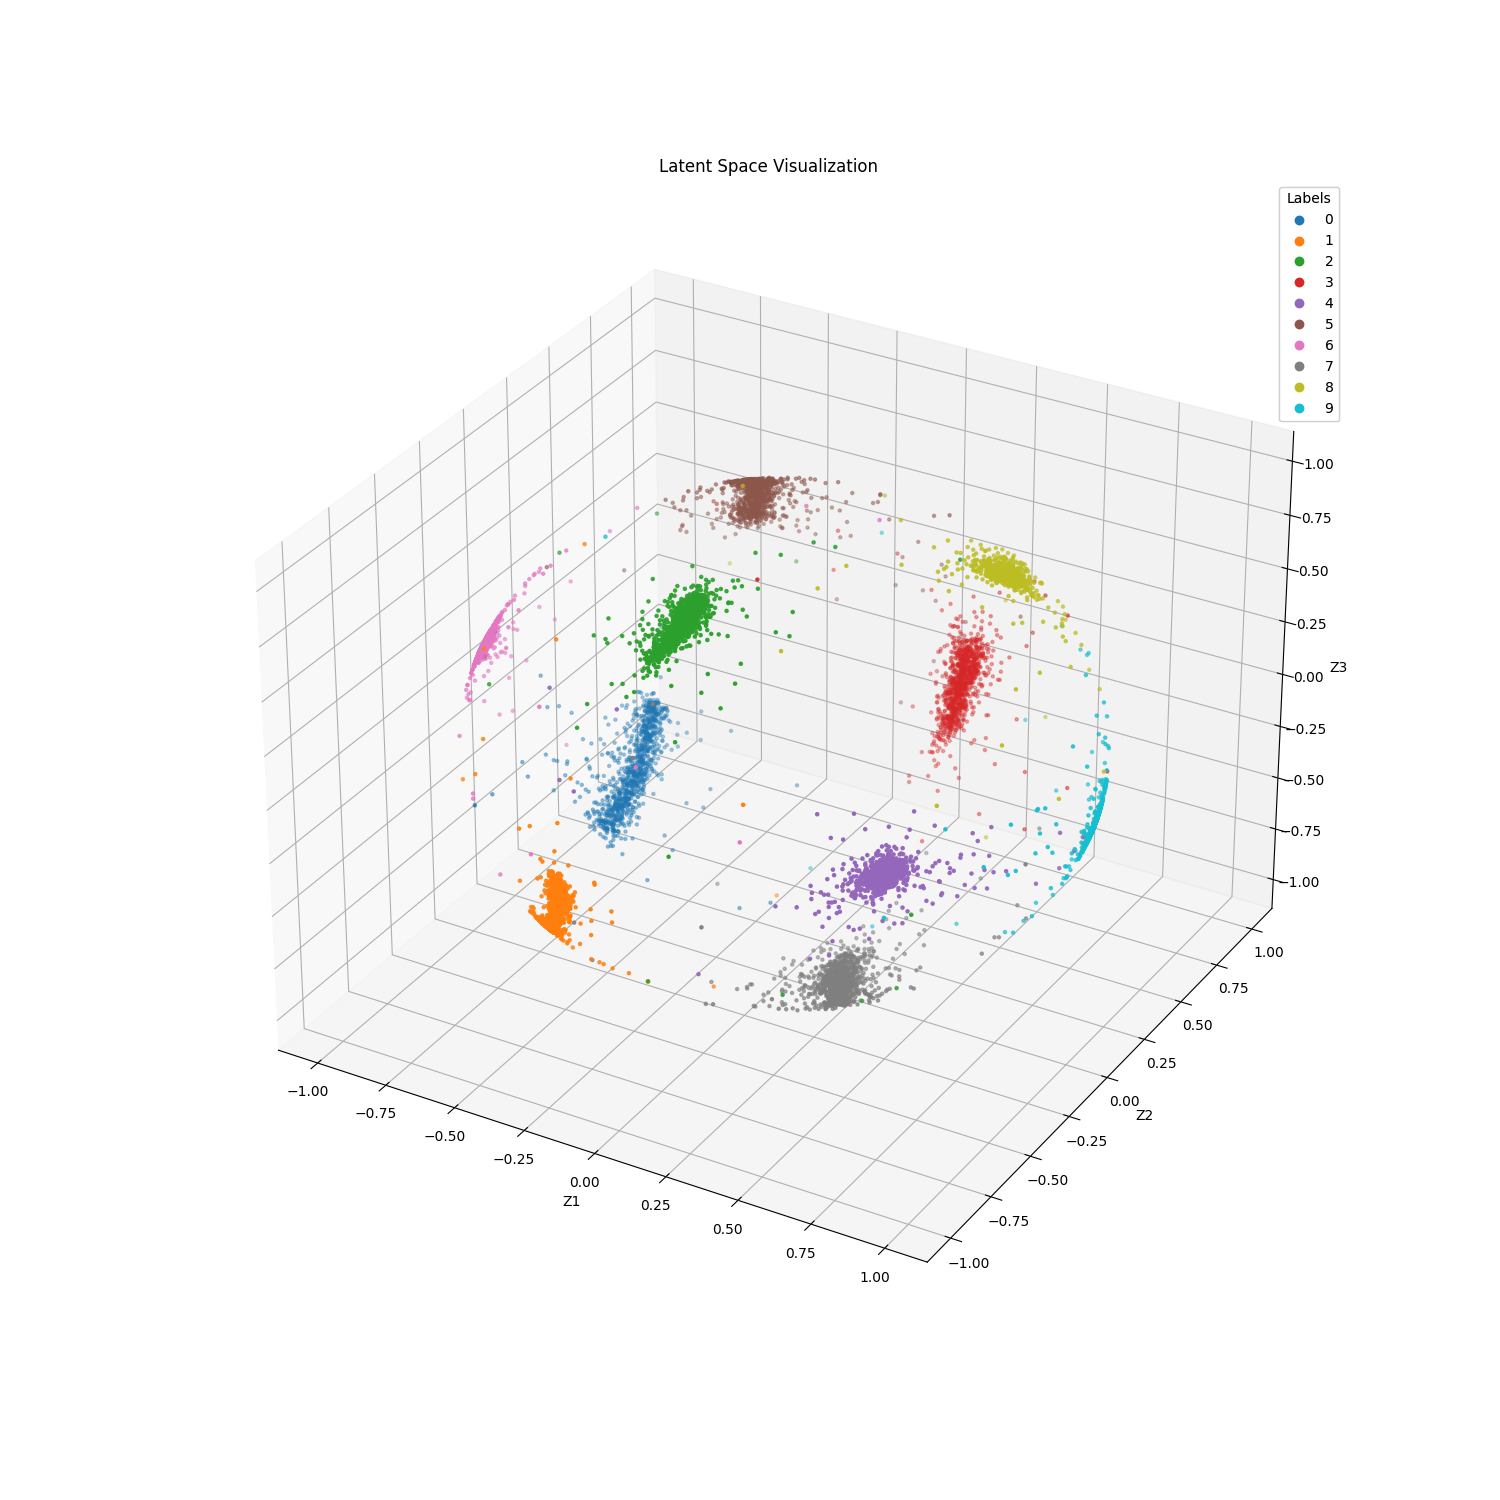
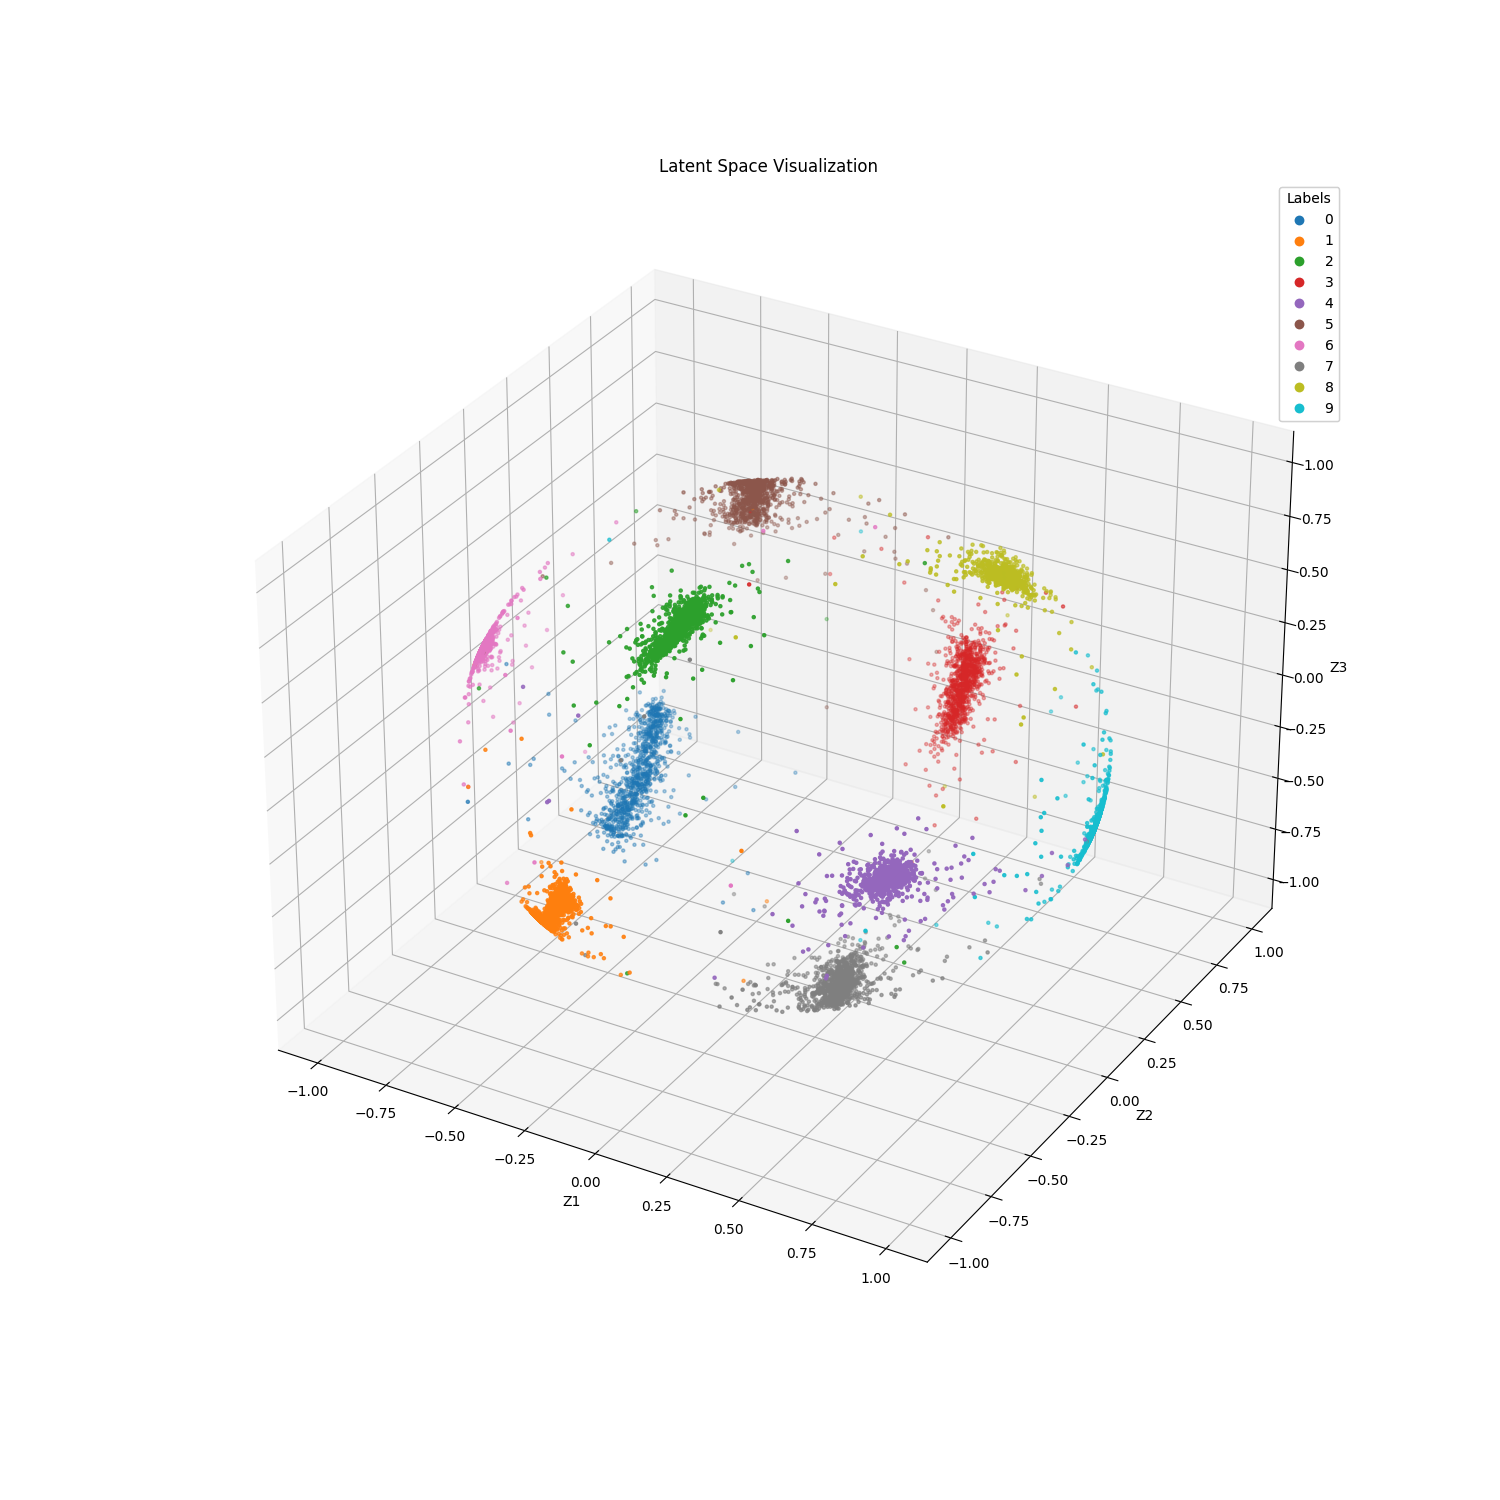
cnn + vmfloss + image gen

Changed region(s): [[0.368, 0.3067, 0.7667, 0.6747], [0.3067, 0.368, 0.368, 0.46], [0.3373, 0.552, 0.3987, 0.644]]

diff --git a/source/ch3-vae/svae/train_svae_mnist.py b/source/ch3-vae/svae/train_svae_mnist.py
@@ -12,6 +12,7 @@ from hiq.cv_torch import get_cv_dataset, DS_PATH_MNIST
 from hiq import deterministic
 import wandb
 from torch.optim.lr_scheduler import CosineAnnealingLR
+from torchvision.utils import make_grid
 
 # 基本参数
 original_dim = 784
@@ -34,11 +35,12 @@ CONTR_MUL = 0.3
 CNN_NETWORK = False
 MARGIN = 0.08
 T_MAX = EPOCHS
-ETA_MIN = LR/100
+ETA_MIN = LR / 100
+
 
 def load_data(data_path, batch_size):
     channel = 1
-    transform = transforms.Compose([transforms.ToTensor(), transforms.Normalize((0.5,)*channel, (0.5,)*channel)])
+    transform = transforms.Compose([transforms.ToTensor(), transforms.Normalize((0.5,) * channel, (0.5,) * channel)])
     loader_params = dict(
         shuffle=True,
         drop_last=False,
@@ -54,6 +56,7 @@ def load_data(data_path, batch_size):
                                 convert_rgb=False,
                                 **loader_params)
     return dataloader['train'], dataloader['test']
+
 
 class SVAE_CNN(nn.Module):
     def __init__(self, embedding_dim=84):
@@ -87,6 +90,7 @@ class SVAE_CNN(nn.Module):
         )
         self.mode = 'cnn'
 
+
 class SVAE_Linear(nn.Module):
     def __init__(self):
         super().__init__()
@@ -106,6 +110,7 @@ class SVAE_Linear(nn.Module):
             nn.Tanh()
         )
         self.mode = 'linear'
+
 
 class SVAE(SVAE_CNN):
     def __init__(self):
@@ -159,6 +164,7 @@ class SVAE(SVAE_CNN):
             samples = self.decode(z).cpu()
             return samples
 
+
 def loss_function(recon_x, x, vq_loss=0):
     recon_loss = F.mse_loss(recon_x, x.view(-1, original_dim), reduction='mean')
     return recon_loss + none_as_0(vq_loss), recon_loss
@@ -190,7 +196,7 @@ def save_recon_loss_history(recon_loss_history, replace_it, version):
     import pandas as pd
     if len(recon_loss_history) == 0:
         return
-    
+
     df = pd.DataFrame(recon_loss_history, columns=[f'v{version}'])
     filename = 'recon_loss.csv'
 
@@ -209,25 +215,27 @@ def save_recon_loss_history(recon_loss_history, replace_it, version):
         else:
             # Add new column for current version
             existing_df[f'v{version}'] = pd.Series(recon_loss_history)
-        
+
         # Ensure all columns have the same length by padding with NaN
         max_length = max(existing_df.shape[0], len(recon_loss_history))
         for column in existing_df.columns:
             if len(existing_df[column]) < max_length:
-                existing_df[column] = existing_df[column].tolist() + [float('nan')] * (max_length - len(existing_df[column]))
-        
+                existing_df[column] = existing_df[column].tolist() + [float('nan')] * (
+                            max_length - len(existing_df[column]))
+
         # Ensure the new column also matches the max length
         if len(existing_df[f'v{version}']) < max_length:
-            existing_df[f'v{version}'] = existing_df[f'v{version}'].tolist() + [float('nan')] * (max_length - len(existing_df[f'v{version}']))
-        
+            existing_df[f'v{version}'] = existing_df[f'v{version}'].tolist() + [float('nan')] * (
+                        max_length - len(existing_df[f'v{version}']))
+
         existing_df.to_csv(filename, index=False)
     except FileNotFoundError:
         df.to_csv(filename, index=False)
 
 
-
 def save_checkpoint(state, filename):
     torch.save(state, filename)
+
 
 def load_checkpoint(filename, model, optimizer):
     checkpoint = torch.load(filename)
@@ -248,11 +256,13 @@ def contrastive_loss_cosine(z, labels, margin=0.05, multiplier=500.):
     contrastive_loss_value = multiplier * (positive_loss + negative_loss).mean()
     return contrastive_loss_value
 
+
 def none_as_0(x):
     if isinstance(x, int):
         return x
     else:
         return 0 if x is None else x.item()
+
 
 def vmfml_loss(z, labels, kappa=100, num_classes=10):
     z = F.normalize(z, p=2, dim=1)
@@ -272,31 +282,33 @@ def vmfml_loss(z, labels, kappa=100, num_classes=10):
     loss = loss / batch_size
     return loss * 0.05
 
+def compute_class_means(z, labels, num_classes):
+    class_means = torch.zeros(num_classes, z.shape[1])
+    for c in range(num_classes):
+        class_indices = (labels == c)
+        if class_indices.sum() > 0:
+            class_means[c] = F.normalize(z[class_indices].mean(dim=0), p=2, dim=0)
+    return class_means
 
 def vmfml_loss_v2(z, labels, kappa=100, num_classes=10):
     z = F.normalize(z, p=2, dim=1)
     batch_size = z.size(0)
-
     # Compute class means
     class_means = torch.zeros(num_classes, z.size(1), device=z.device)
     for c in range(num_classes):
         class_indices = (labels == c)
         if class_indices.sum() > 0:
             class_means[c] = F.normalize(z[class_indices].mean(dim=0), p=2, dim=0)
-
     # Compute posterior probabilities
     logits = kappa * torch.mm(z, class_means.t())
     log_probs = F.log_softmax(logits, dim=1)
-
     # Create one-hot encoding of labels
     labels_one_hot = F.one_hot(labels, num_classes).float()
-
     # Compute the vMFML loss as the negative log likelihood
     loss = -torch.sum(labels_one_hot * log_probs) / batch_size
-
     return loss
 
-from torchvision.utils import make_grid
+
 def train(model, epoch, train_loader, optimizer, device, train_loss_history, recon_loss_history, vq_loss_weight=1,
           use_vmfml=False, scheduler=None, original_dim=784, kappa=10, num_classes=10, contrastive=False):
     model.train()
@@ -305,7 +317,7 @@ def train(model, epoch, train_loader, optimizer, device, train_loss_history, rec
     total_vq_loss = 0  # Initialize total VQ loss
     total_vmfml_loss = 0  # Initialize total vMFML loss
     total_contrastive_loss = 0  # Initialize total contrastive loss
-    contrastive_loss_value, vmfml_loss_value, kld = [torch.tensor(0.0, device=device)]*3
+    contrastive_loss_value, vmfml_loss_value, kld = [torch.tensor(0.0, device=device)] * 3
     batch_idx = 1
     small_constant = 1e-8
     with tqdm(total=len(train_loader.dataset), desc=f"Train Epoch {epoch}", unit='samples') as pbar:
@@ -351,7 +363,6 @@ def train(model, epoch, train_loader, optimizer, device, train_loss_history, rec
           f' recon: {avg_recon_loss:.4f}, vq: {avg_vq_loss:.4f},'
           f' contra: {avg_contrastive_loss:.4f}, vMFML: {avg_vmfml_loss:.4f}')
 
-
     # Log metrics to wandb
     wandb.log({"t/avg_train_loss": avg_train_loss,
                "t/avg_recon_loss": avg_recon_loss,
@@ -367,6 +378,7 @@ def train(model, epoch, train_loader, optimizer, device, train_loss_history, rec
     comparison = torch.cat([original_images, reconstructed_images])
     grid = make_grid(comparison, nrow=n)
     wandb.log({"Reconstructions": [wandb.Image(grid, caption="Top: Original images, Bottom: Reconstructed images")]})
+
 
 def validate(model, test_loader, device, val_loss_history, enable_statistics=False, vq_loss_weight=1, contrastive=False,
              use_vmfml=False, kappa=10, num_classes=10):
@@ -417,7 +429,7 @@ def validate(model, test_loader, device, val_loss_history, enable_statistics=Fal
     return avg_val_loss
 
 
-def visualize_latent_space(model, test_loader, device, version=0):
+def visualize_latent_space(model, test_loader, device, num_classes=NUM_CLASSES, version=0):
     if latent_dim != 3:
         return
     model.eval()
@@ -433,26 +445,29 @@ def visualize_latent_space(model, test_loader, device, version=0):
                 z_mean = z_mean.view(z_mean.shape[0], latent_dim)
             z_means.append(z_mean)
             labels.append(label)
-        z_means = torch.cat(z_means).cpu().numpy()
-        labels = torch.cat(labels).cpu().numpy()
-
+        z_means = torch.cat(z_means)
+        labels = torch.cat(labels)
+        z_means_cpu = z_means.cpu().numpy()
+        labels_cpu = labels.cpu().numpy()
+        class_means = compute_class_means(z_means, labels, num_classes).to(device)
     fig = plt.figure(figsize=(15, 15))  # Larger figure size
     ax = fig.add_subplot(111, projection='3d')
-    scatter = ax.scatter(z_means[:, 0], z_means[:, 1], z_means[:, 2], c=labels, cmap='tab10', s=5)  # Smaller points
-
+    scatter = ax.scatter(z_means_cpu[:, 0], z_means_cpu[:, 1], z_means_cpu[:, 2], c=labels_cpu, cmap='tab10',
+                         s=5)  # Smaller points
     # Create legend
     legend1 = ax.legend(*scatter.legend_elements(), title="Labels")
     ax.add_artist(legend1)
-
     ax.set_xlabel('Z1')
     ax.set_ylabel('Z2')
     ax.set_zlabel('Z3')
     plt.title('Latent Space Visualization')
-    plt.savefig(f"img/latent_space_v{version}.png")
+    plt.savefig(f"latent_space_v{version}.png")
     plt.show()
 
+    return class_means
 
-def visualize_reconstructed_digits(model, device, latent_dim, version=0):
+def visualize_reconstructed_digits(model, device, latent_dim, version=0, class_means=None):
+    import random
     with torch.no_grad():
         n = 15
         digit_size = 28
@@ -460,7 +475,10 @@ def visualize_reconstructed_digits(model, device, latent_dim, version=0):
         for i in range(n):
             for j in range(n):
                 # TODO - 采样的时候去中心点采样
-                z_sample = torch.randn(1, latent_dim, device=device)
+                if class_means is None:
+                    z_sample = torch.randn(1, latent_dim, device=device)
+                else:
+                    z_sample = torch.randn(1, latent_dim, device=device) / 10 + class_means[random.randint(0, 9)]
                 z_sample /= z_sample.norm()
                 x_decoded = model.decode(z_sample).view(digit_size, digit_size).cpu()
                 digit = x_decoded.numpy()
@@ -471,6 +489,7 @@ def visualize_reconstructed_digits(model, device, latent_dim, version=0):
     plt.title('Reconstructed Digits')
     plt.savefig(f'reconstructed_digits_v{version}.png')
     plt.show()
+
 
 def plot_loss(train_loss_history, val_loss_history, version=0):
     if not train_loss_history:
@@ -486,6 +505,7 @@ def plot_loss(train_loss_history, val_loss_history, version=0):
     plt.savefig(f"img/vq_svae_v{version}_loss_history.png")
     plt.show()
 
+
 def visualize_generated_images(model, num_samples, device, noise_scale=0.1, version=0):
     model.eval()
     with torch.no_grad():
@@ -496,6 +516,7 @@ def visualize_generated_images(model, num_samples, device, noise_scale=0.1, vers
             axes[i].axis('off')
         plt.savefig(f"img/generated_images_vq_svae_v{version}.png")
         plt.show()
+
 
 def generate_spherical_points(dim, num_points):
     if dim != 3:
@@ -514,6 +535,7 @@ def generate_spherical_points(dim, num_points):
     points = torch.tensor(points, dtype=torch.float)
     return points
 
+
 def plot_spherical_points(points):
     if points.shape[1] != 3:
         raise ValueError("Can only plot 3-dimensional points")
@@ -530,6 +552,7 @@ def plot_spherical_points(points):
     plt.title("3D Spherical Points")
     plt.show()
 
+
 def main(args):
     device = torch.device('cuda' if torch.cuda.is_available() else 'cpu')
     model = SVAE().to(device)
@@ -545,57 +568,59 @@ def main(args):
         start_epoch, train_loss_history, val_loss_history = load_checkpoint(checkpoint_path, model, optimizer)
         print(f'Checkpoint loaded, resuming training from epoch {start_epoch}')
 
-    best_val_loss = float('inf')
-    epochs_no_improve = 0
-    patience = PATIENCE
-    for epoch in tqdm(range(start_epoch, args.epochs + 1), desc="Epochs"):
-        train(model, epoch, train_loader, optimizer, device, train_loss_history, recon_loss_history,
-              contrastive=CONTRASTIVE,
-              use_vmfml=vMFLoss,
-              scheduler=scheduler)
-        avg_val_loss = validate(model, test_loader, device, val_loss_history,
-                                contrastive=CONTRASTIVE,
-                                use_vmfml=vMFLoss)
-        
-        if avg_val_loss < best_val_loss:
-            best_val_loss = avg_val_loss
-            epochs_no_improve = 0
-        else:
-            epochs_no_improve += 1
+    if args.mode == "train":
+        best_val_loss = float('inf')
+        epochs_no_improve = 0
+        patience = PATIENCE
+        for epoch in tqdm(range(start_epoch, args.epochs + 1), desc="Epochs"):
+            train(model, epoch, train_loader, optimizer, device, train_loss_history, recon_loss_history,
+                  contrastive=CONTRASTIVE,
+                  use_vmfml=vMFLoss,
+                  scheduler=scheduler)
+            avg_val_loss = validate(model, test_loader, device, val_loss_history,
+                                    contrastive=CONTRASTIVE,
+                                    use_vmfml=vMFLoss)
 
-        # Early stopping
-        if epochs_no_improve >= patience:
-            print(f'Early stopping at epoch {epoch}')
-            break
+            if avg_val_loss < best_val_loss:
+                best_val_loss = avg_val_loss
+                epochs_no_improve = 0
+            else:
+                epochs_no_improve += 1
 
-        save_checkpoint({
-            'epoch': epoch,
-            'model_state_dict': model.state_dict(),
-            'optimizer_state_dict': optimizer.state_dict(),
-            'train_loss_history': train_loss_history,
-            'val_loss_history': val_loss_history
-        }, checkpoint_path)
+            # Early stopping
+            if epochs_no_improve >= patience:
+                print(f'Early stopping at epoch {epoch}')
+                break
 
-    plot_recon_loss(recon_loss_history, start_epoch==1, version=0)
-    plot_loss(train_loss_history, val_loss_history)
-    visualize_latent_space(model, test_loader, device)
-    visualize_reconstructed_digits(model, device, latent_dim)
+            save_checkpoint({
+                'epoch': epoch,
+                'model_state_dict': model.state_dict(),
+                'optimizer_state_dict': optimizer.state_dict(),
+                'train_loss_history': train_loss_history,
+                'val_loss_history': val_loss_history
+            }, checkpoint_path)
+
+        plot_recon_loss(recon_loss_history, start_epoch == 1, version=0)
+        plot_loss(train_loss_history, val_loss_history)
+    class_means = visualize_latent_space(model, test_loader, device, version=0)
+    visualize_reconstructed_digits(model, device, latent_dim, class_means=class_means, version=0)
     visualize_generated_images(model, num_samples=10, device=device, noise_scale=0.1, version=0)
 
 
-
 if __name__ == "__main__":
-    wandb.init(
-        project="svae_mnist",
-        name="vmfloss-v2-cnn",
-        config={
-            "learning_rate": LR,
-        }
-    )
     parser = argparse.ArgumentParser(description="SVAE Training Script")
     parser.add_argument("--batch_size", type=int, default=BATCH_SIZE, help="Batch size for training")
     parser.add_argument("--epochs", type=int, default=EPOCHS, help="Number of epochs to train")
     parser.add_argument("--lr", type=float, default=LR, help="Learning rate")
     parser.add_argument("--checkpoint_dir", type=str, default='mbin', help="Directory to save checkpoints")
+    parser.add_argument("--mode", type=str, default='train', help="train or infer")
     args = parser.parse_args()
+    if args.mode == 'train':
+        wandb.init(
+            project="svae_mnist",
+            name="vmfloss-v2-cnn",
+            config={
+                "learning_rate": LR,
+            }
+        )
     main(args)
